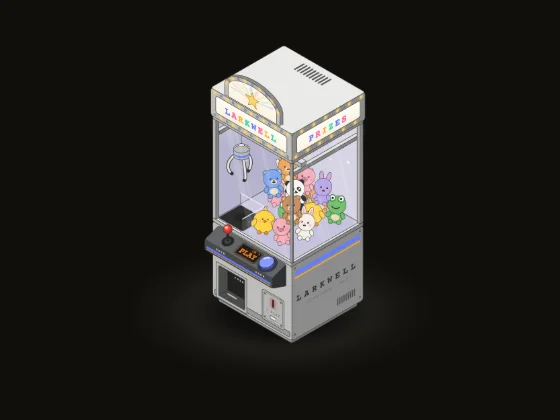
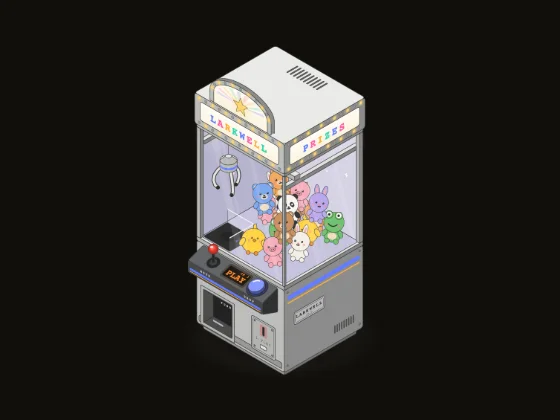
Keep the claw machine in the house style and its pointer from spending credits
The brand on the cabinet side is now a small plate in the house brand
face instead of a line across the panel, and the ground shadow (and the
dark floor pool) stays inside the stage and above the caption rule.
Hovering over the glass only steers a play already under way; a click,
a key or the button starts one. A test holds the drawing's node count
fixed through every interaction, in full and reduced motion. Thumbnails
retaken.

Changed region(s): [[0.3339, 0.1238, 0.6679, 0.8976], [0.4857, 0.0929, 0.5161, 0.1238]]

diff --git a/packages/miniatures/src/figures/claw-machine.ts b/packages/miniatures/src/figures/claw-machine.ts
@@ -12,7 +12,7 @@ const css = `:root{color-scheme:light dark;--bg:#f4f3ef;--ink:#323232;--muted:#8
 .back{fill:var(--back)}.side.back{fill:var(--back-side)}.bed{fill:var(--bed)}.deco{fill:#fff;opacity:.8;stroke:none}.lamp-glow{fill:url(#lampG);opacity:var(--glow);pointer-events:none}
 .acrylic{fill:#fff;fill-opacity:var(--acryl);stroke:var(--line);stroke-width:.6;vector-effect:non-scaling-stroke}.rim{fill:none;stroke:#fff;stroke-width:.9;stroke-linecap:round;opacity:.85}.sticker{fill:var(--accent);font-size:2.6px;font-weight:700;letter-spacing:.5px;text-anchor:middle}
 .pane{fill:#fff;opacity:var(--pane);pointer-events:none}.streak{fill:#fff;opacity:var(--streak);pointer-events:none}.edge{fill:none;stroke:#fff;stroke-width:.9;opacity:.75;pointer-events:none}.steer{cursor:crosshair}
-.stripe{fill:var(--accent);stroke:none}.stripe2{fill:var(--amber);stroke:none}.side-brand{fill:var(--ink);font-size:8px;font-weight:700;letter-spacing:3px;text-anchor:middle;opacity:.85}
+.stripe{fill:var(--accent);stroke:none}.stripe2{fill:var(--amber);stroke:none}.plate-t{fill:var(--ink);font-size:3.6px;font-weight:600;letter-spacing:.9px;text-anchor:middle}.tiny{font-size:1.9px;letter-spacing:.4px;fill:var(--muted)}
 .sign{fill:url(#signG)}.marq{font-size:8.4px;font-weight:700;letter-spacing:1.6px;text-anchor:middle}.m1{fill:var(--accent)}.m2{fill:var(--pink)}.m3{fill:var(--amber)}.m4{fill:var(--teal)}.crest-x{fill:var(--side);stroke:none}.ray{opacity:.22;stroke:none}
 .bulb .core{fill:var(--off);stroke:var(--line);stroke-width:.4;vector-effect:non-scaling-stroke}.bulb .halo{fill:url(#bulbG);opacity:0}.bulb.on .core{fill:var(--bulb);stroke:none}.bulb.on .halo{opacity:1}
 .star-lit{fill:var(--bulb);stroke:var(--line);stroke-width:.6;vector-effect:non-scaling-stroke}.star-halo{fill:url(#bulbG)}
@@ -23,7 +23,7 @@ const css = `:root{color-scheme:light dark;--bg:#f4f3ef;--ink:#323232;--muted:#8
 .flap{fill:#1d1d1c;fill-opacity:.42;stroke:var(--line);stroke-width:.7;vector-effect:non-scaling-stroke}.flap-t{fill:#fff;opacity:.78;font-size:2.5px;font-weight:700;letter-spacing:1px;text-anchor:middle}
 .cable{fill:none;stroke:var(--line);stroke-width:.75;vector-effect:non-scaling-stroke}.fo{fill:none;stroke:var(--line);stroke-width:3.1;stroke-linecap:round;stroke-linejoin:round}.fi{fill:none;stroke:var(--chrome-top);stroke-width:1.75;stroke-linecap:round;stroke-linejoin:round}.tip{fill:var(--rubber)}.claw-shadow{fill:var(--shadow);opacity:.2;filter:url(#soft)}
 .pf{fill:var(--c);stroke:var(--line);stroke-width:.75;vector-effect:non-scaling-stroke;stroke-linejoin:round}.pd{fill:var(--patch)}.pb{fill:var(--l)}.pl{fill:var(--l)}.pe{fill:var(--eye)}.ph{fill:#fff}.pn{fill:var(--nose)}.pk{fill:var(--cheek);opacity:.5}.pm{fill:none;stroke:var(--eye);stroke-width:.55;stroke-linecap:round;stroke-linejoin:round}
-/* dark v2: night studio */:root{--stage-ink:var(--ink);--stage-muted:var(--muted)}.stage-contact,.stage-pool{display:none}@media(prefers-color-scheme:dark){.stage-floor,.stage-pool{fill:url(#stage-floor-fill);stroke:none;opacity:1;filter:none;transform:scale(1.5);transform-box:fill-box;transform-origin:center}.stage-pool{display:inline}.stage-contact{display:inline;fill:url(#stage-contact-fill);stroke:none;opacity:1;filter:none;transform:scale(.9);transform-box:fill-box;transform-origin:center}}`
+/* dark v2: night studio */:root{--stage-ink:var(--ink);--stage-muted:var(--muted)}.stage-contact,.stage-pool{display:none}@media(prefers-color-scheme:dark){.stage-floor,.stage-pool{fill:url(#stage-floor-fill);stroke:none;opacity:1;filter:none;transform:scale(1.15);transform-box:fill-box;transform-origin:center}.stage-pool{display:inline}.stage-contact{display:inline;fill:url(#stage-contact-fill);stroke:none;opacity:1;filter:none;transform:scale(.9);transform-box:fill-box;transform-origin:center}}`
 
 const defs = `<radialGradient id="ball" cx=".5" cy=".5" r=".55" fx=".36" fy=".3"><stop offset="0" stop-color="#ff9b8c"/><stop offset=".55" stop-color="#e5392b"/><stop offset="1" stop-color="#9e2216"/></radialGradient>
 <radialGradient id="bulbG"><stop offset="0" style="stop-color:var(--bulb)" stop-opacity=".95"/><stop offset=".42" style="stop-color:var(--bulb)" stop-opacity=".38"/><stop offset="1" style="stop-color:var(--bulb)" stop-opacity="0"/></radialGradient>
@@ -72,10 +72,10 @@ const ctl=(g,label)=>{for(const[k,v]of Object.entries({class:'control',role:'but
 const star=(u,v,r1,r2,n=5)=>{let d='';for(let i=0;i<2*n;i++){const a=i*PI/n-PI/2,r=i%2?r2:r1;d+=(i?'L':'M')+f2(u+cos(a)*r)+','+f2(v+sin(a)*r);}return d+'Z';},spark=(g,u,v,r,c='deco')=>el('path',{d:star(u,v,r,r*.42,4),class:c},g);
 const W=80,D=72,ZC=70,FL=73,ZT=160,ZH=163,HZ=24,CZ=150,HOME=[15,58],STEP=5,BX=[12,68],BY=[12,62],ZH0=128,OPEN=.62,REST=.2,SHUT=-.08,GRIP=.14,TIMER=15,IDLE=9000,G=520;
 // Ground: one soft shadow (light), the lit floor and its contact (dark).
-const sh=P(40,44,0);for(const c of['shadow stage-floor','stage-contact'])el('ellipse',{cx:f2(sh[0]),cy:f2(sh[1]+3),rx:90,ry:40,class:c});
+const sh=P(40,36,0);for(const c of['shadow stage-floor','stage-contact'])el('ellipse',{cx:f2(sh[0]),cy:f2(sh[1]+3),rx:70,ry:31,class:c});
 // Plinth and cabinet: stripes, brand and vents down the side; the prize door and the coin door in front.
 box(3,3,0,74,66,5,1.2,'base');box(0,0,5,W,D,ZC-5,2,'');
-const CS=group(SIDE(W+.05,D,ZC));rect(CS,3,6,66,3.6,1.8,'stripe');rect(CS,3,11.4,66,1,.5,'stripe2');text(CS,36,33,'LARKWELL','side-brand');text(CS,36,39.6,'PRIZE CRANE · CR–3','etch center');slits(CS,46,51,19,6,9,true);for(const[u,v]of[[3,3],[69,3],[3,61],[69,61]])pin(CS,u,v);
+const CS=group(SIDE(W+.05,D,ZC));rect(CS,3,6,66,3.6,1.8,'stripe');rect(CS,3,11.4,66,1,.5,'stripe2');{const g=group('translate(9 22)',CS);rect(g,0,0,28,10,1.6,'face chrome');rect(g,1.2,1.2,25.6,7.6,1,'detail');text(g,14,5.4,'LARKWELL','plate-t');text(g,14,8,'CR–3','plate-t tiny');}slits(CS,46,51,19,6,9,true);for(const[u,v]of[[3,3],[69,3],[3,61],[69,61]])pin(CS,u,v);
 const CF=group(FRONT(0,D+.05,ZC));rect(CF,2,58.4,76,4.6,1,'face base');
 const bayG=el('g',{'clip-path':'url(#bayClip)'});rect(group(FRONT(6,63,34),bayG),0,0,26,26,0,'face void');rect(group(TOP(6,63,8.02),bayG),0,0,26,9,0,'face top recess');rect(group(SIDE(6.02,D,34),bayG),0,0,9,26,0,'face side recess');
 const DR=group(FRONT(6,D+.06,34));el('path',{d:'M-2.4,-2.4H28.4V28.4H-2.4ZM0,0V26H26V0Z','fill-rule':'evenodd',class:'face chrome'},DR);
@@ -166,7 +166,7 @@ el('rect',{x:-400,y:-400,width:f2(400+P(61,D,0)[0]),height:800},el('clipPath',{i
 const reduced=matchMedia('(prefers-reduced-motion: reduce)');
 const readout=document.getElementById('readout'),stateLabel=document.getElementById('state'),announcement=document.getElementById('announcement'),say=m=>{announcement.textContent=m;};
 let credits=3,won=0,timer=TIMER,phase='idle',pt0=performance.now(),last=pt0,gx=HOME[0],gy=HOME[1],vx=0,vy=0,tx=gx,ty=gy,ox=0,oy=0,wox=0,woy=0,cx=gx,cy=gy,zh=ZH0,z0=ZH0,th=REST,tht=REST,phi=.5;
-let held=null,weak=false,slipAt=9,prog=0,grab=null,dist0=1,dropHere=false,demoPlay=false,lastIn=pt0-IDLE+2600,holdT=0,beep=99,note='',noteUntil=0,winT=-1e9,bay=null,btnDown=0,btnH=-1,coinT=0,slotT=-1e9,flapKick=-1e9,flapOpen=-1e9,flapA=-1,jx=0,jy=0,jKey='',clawKey='',roam=0,outKey='',lit='',ledKey='',headK=0,shK=0;
+let held=null,weak=false,slipAt=9,prog=0,grab=null,dist0=1,dropHere=false,demoPlay=false,lastIn=pt0-IDLE+2600,holdT=0,beep=99,note='',noteUntil=0,winT=-1e9,bay=null,btnDown=0,btnH=-1,coinT=0,slotT=-1e9,flapKick=-1e9,flapOpen=-1e9,flapA=-1,jx=0,jy=0,jKey='',clawKey='',outKey='',lit='',ledKey='',headK=0,shK=0;
 const keys={ArrowLeft:0,ArrowRight:0,ArrowUp:0,ArrowDown:0},DIR={ArrowLeft:[-1,0],ArrowRight:[1,0],ArrowUp:[0,-1],ArrowDown:[0,1]},demo={on:false,step:0,t:0,aim:null};
 let ac=null,nb=null;
 function audio(){try{if(!ac){const A=window.AudioContext||window.webkitAudioContext;if(!A)return null;ac=new A();}if(ac.state==='suspended')ac.resume().catch(()=>{});}catch(_){ac=null;}return ac;}
@@ -188,7 +188,7 @@ for(const q of pile)q.z=restZ(q.x,q.y,q.r,q);
 // Play: a credit buys a timed turn; the arrows step the gantry (and keep it going while held), Space drops.
 function deny(){notice('INSERT COIN · C ADDS A CREDIT');slotT=performance.now();tone(196,.16,.025,'square');say('No credits: press C for a coin.');}
 function begin(isDemo){if(phase==='play')return true;if(phase!=='idle'){notice('WAIT FOR THE CLAW',1000);return false;}if(!isDemo){if(credits<1){deny();return false;}credits--;}
-demoPlay=!!isDemo;timer=TIMER;beep=99;roam=0;dropHere=false;go('play');if(!isDemo){tone(523,.08,.02,'square');tone(784,.1,.02,'square',.08);say(`Game on: ${TIMER} seconds. Steer, then press Space to drop.`);}return true;}
+demoPlay=!!isDemo;timer=TIMER;beep=99;dropHere=false;go('play');if(!isDemo){tone(523,.08,.02,'square');tone(784,.1,.02,'square',.08);say(`Game on: ${TIMER} seconds. Steer, then press Space to drop.`);}return true;}
 function arrow(k){if(phase==='idle'&&!begin())return;if(phase!=='play'){notice('WAIT FOR THE CLAW',1000);return;}keys[k]=1;holdT=0;const[a,b]=DIR[k];tx=clamp(tx+a*STEP,...BX);ty=clamp(ty+b*STEP,...BY);if(reduced.matches){gx=tx;gy=ty;}hiss(.06,.008,700,.9);}
 function dropBtn(){btnDown=performance.now()+150;hiss(.025,.02,3200,2);if(phase==='idle'&&!begin())return;if(phase==='play')startDrop();}
 function startDrop(){dropHere=false;go('settle');tone(260,1.1,.012,'sawtooth',0,130);say('Dropping the claw.');}
@@ -301,8 +301,8 @@ else s=held?(weak?`BARELY HOLDING THE ${held.name}`:`GOT THE ${held.name}`):'RET
 if(demo.on)s=`DEMO · ${s}`;if(r+s!==outKey){outKey=r+s;readout.textContent=r;stateLabel.textContent=s;}}
 function tick(now){const dt=min(.05,max(0,(now-last)/1000)),red=reduced.matches;last=now;
 demoStep(now,red);steer(dt,red);sequence(now,dt,red);hang(now,dt,red);for(const q of pile)step(q,now,dt,red);render(now,red);ui(now);requestAnimationFrame(tick);}
-// Input: arrows (held, they keep going), Space, C and P; the button, the coin slot and the prize door; the pointer
-// over the glass steers once it has moved a little, and a click there drops the claw where it points.
+// Input: arrows (held, they keep going), Space, C and P; the button, the coin slot and the prize door. A click on the
+// glass starts a play and drops the claw where it points; while a play is under way the pointer over the glass steers.
 document.addEventListener('keydown',e=>{if(e.ctrlKey||e.metaKey||e.altKey||e.defaultPrevented)return;const k=e.key;
 if(DIR[k]){e.preventDefault();if(!e.repeat){user();arrow(k);}return;}if(e.repeat)return;
 if(k===' '){e.preventDefault();user();dropBtn();}else if(k==='c'||k==='C'){e.preventDefault();user();coin();}else if(k==='p'||k==='P'){e.preventDefault();user();take();}});
@@ -310,10 +310,7 @@ document.addEventListener('keyup',e=>{if(DIR[e.key])keys[e.key]=0;});
 window.addEventListener('blur',()=>{for(const k in keys)keys[k]=0;});
 bind(btn,()=>{user();dropBtn();});bind(coinCtl,()=>{user();coin();});bind(door,()=>{user();take();});
 const floorAt=e=>{const m=svg.getScreenCTM?.();if(!m)return null;const q=new DOMPoint(e.clientX,e.clientY).matrixTransform(m.inverse()),a=q.x/C,b=(q.y+92)/S;return[clamp((a+b)/2,...BX),clamp((b-a)/2,...BY)];};
-let lastPt=null;
-glassHit.addEventListener('pointermove',e=>{if(e.pointerType==='touch')return;const p=floorAt(e);if(!p)return;if(lastPt)roam+=hypot(p[0]-lastPt[0],p[1]-lastPt[1]);lastPt=p;
-if(phase==='idle'){if(roam<12||credits<1)return;user();if(!begin())return;}else if(phase!=='play')return;else user();tx=p[0];ty=p[1];});
-glassHit.addEventListener('pointerleave',()=>{lastPt=null;});
+glassHit.addEventListener('pointermove',e=>{if(e.pointerType==='touch'||phase!=='play')return;const p=floorAt(e);if(!p)return;user();tx=p[0];ty=p[1];});
 glassHit.addEventListener('click',e=>{const p=floorAt(e);user();if(phase==='idle'&&!begin())return;if(phase!=='play')return;if(p){tx=p[0];ty=p[1];}dropHere=true;hiss(.025,.02,3200,2);});
 render(performance.now(),reduced.matches);ui(performance.now());requestAnimationFrame(tick);
 }

diff --git a/packages/miniatures/src/claw-machine.test.tsx b/packages/miniatures/src/claw-machine.test.tsx
@@ -136,6 +136,18 @@ describe('ClawMachine', () => {
     expect(snap().state).toBe('NO PRIZE AT THE DOOR')
   })
 
+  it('hovering over the glass starts nothing; a click there spends a credit and drops the claw', async () => {
+    const { snap, inside, run } = await play()
+    const glass = inside.querySelector('.steer')!
+    act(() => void glass.dispatchEvent(new Event('pointermove', { bubbles: true })))
+    await run(300)
+    expect(snap()).toEqual(clawMachine.initial)
+    act(() => void glass.dispatchEvent(new MouseEvent('click', { bubbles: true })))
+    await run(100)
+    expect(snap().readout).toBe('CREDITS 2 · TIMER 15 · WON 0')
+    expect(snap().state).toBe('DROPPING THE CLAW')
+  })
+
   it('in full motion it takes its time: the claw drops, closes, lifts and carries home', async () => {
     const { snap, run, press } = await play(OVER_PANDA, 4000, 'never')
     press([' '])
@@ -146,6 +158,36 @@ describe('ClawMachine', () => {
     await run(5500)
     expect(snap().readout).toBe('CREDITS 2 · TIMER 15 · WON 1')
     expect(snap().state).toBe('PRIZE AT THE DOOR · P TAKES IT')
+  })
+
+  it('keeps a fixed number of drawing nodes through every interaction, in full and in reduced motion', async () => {
+    for (const motion of ['never', 'always'] as const) {
+      const { inside, press, run, unmount } = await play([], 300, motion)
+      const count = () => inside.querySelectorAll('*').length
+      const click = (selector: string) => act(() => void inside.querySelector(selector)!.dispatchEvent(new MouseEvent('click', { bubbles: true })))
+      const nodes = count()
+      press(['c', 'c'])
+      await run(600)
+      press(OVER_PANDA)
+      await run(3500)
+      press([' '])
+      await run(9000)
+      press(['p'])
+      await run(2500)
+      press(['ArrowLeft', 'ArrowDown'])
+      await run(1500)
+      click('[aria-label^="Drop button"]')
+      await run(9000)
+      press(OVER_PANDA.filter((_, i) => i !== 0))
+      await run(3500)
+      click('.steer')
+      await run(9000)
+      click('[aria-label^="Coin slot"]')
+      click('[aria-label^="Prize door"]')
+      await run(14000)
+      expect(count(), motion).toBe(nodes)
+      unmount()
+    }
   })
 
   it('left alone in full motion it plays itself, free and silent, until a key takes over', async () => {
